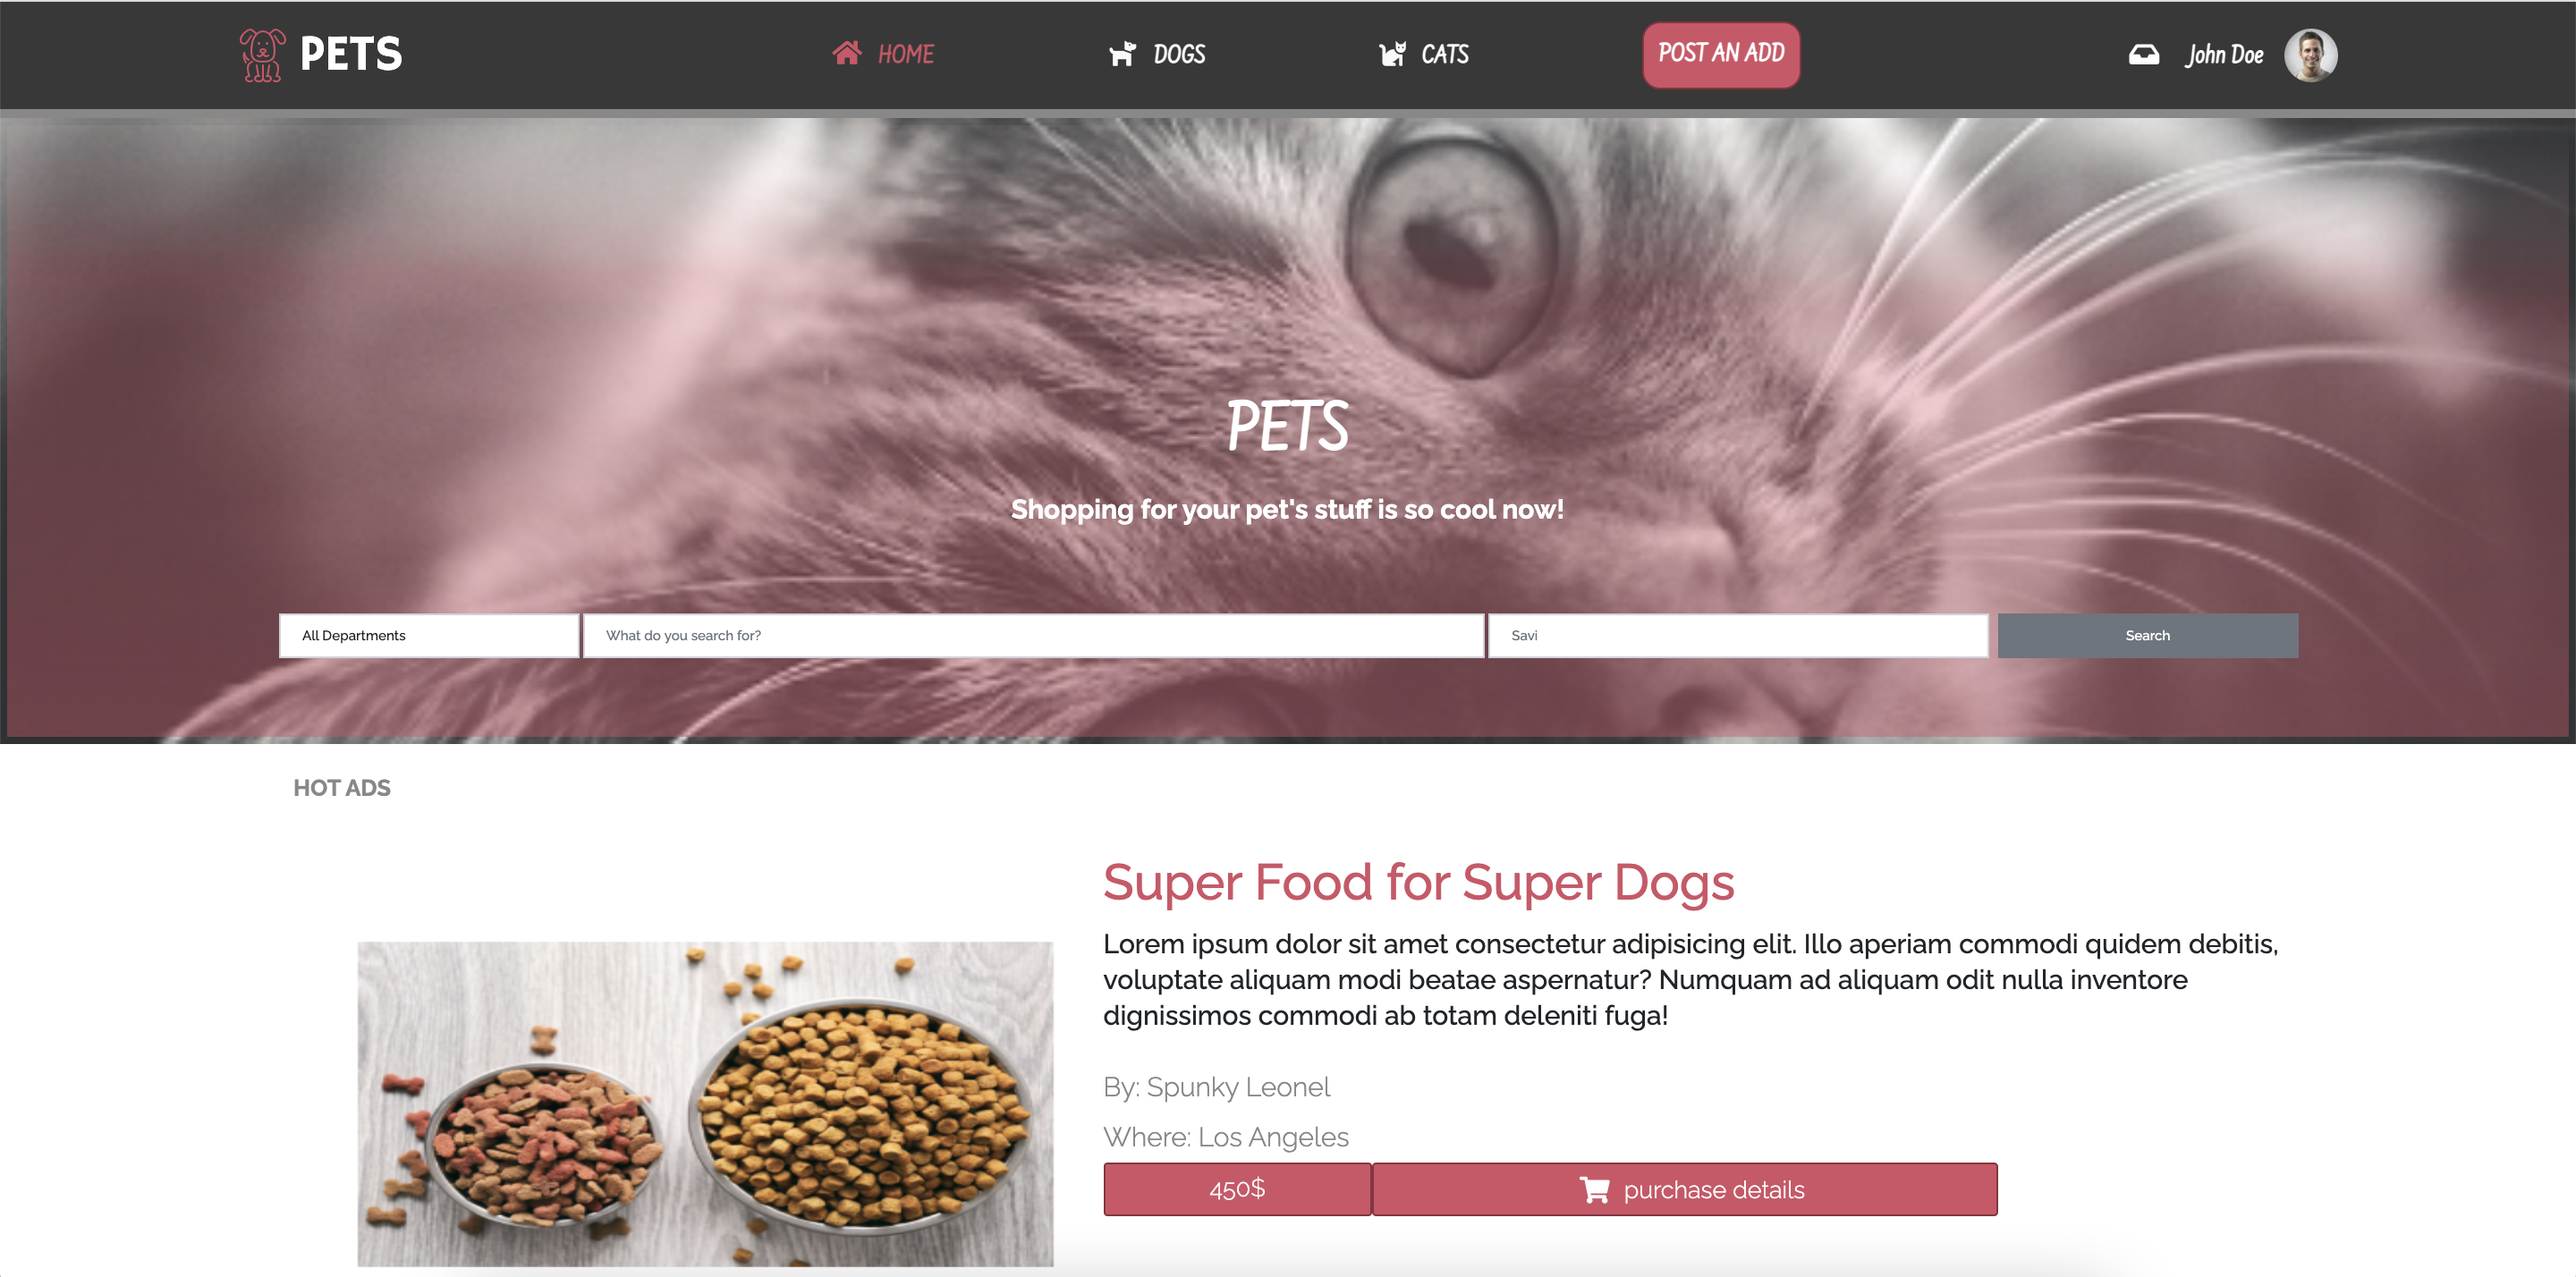
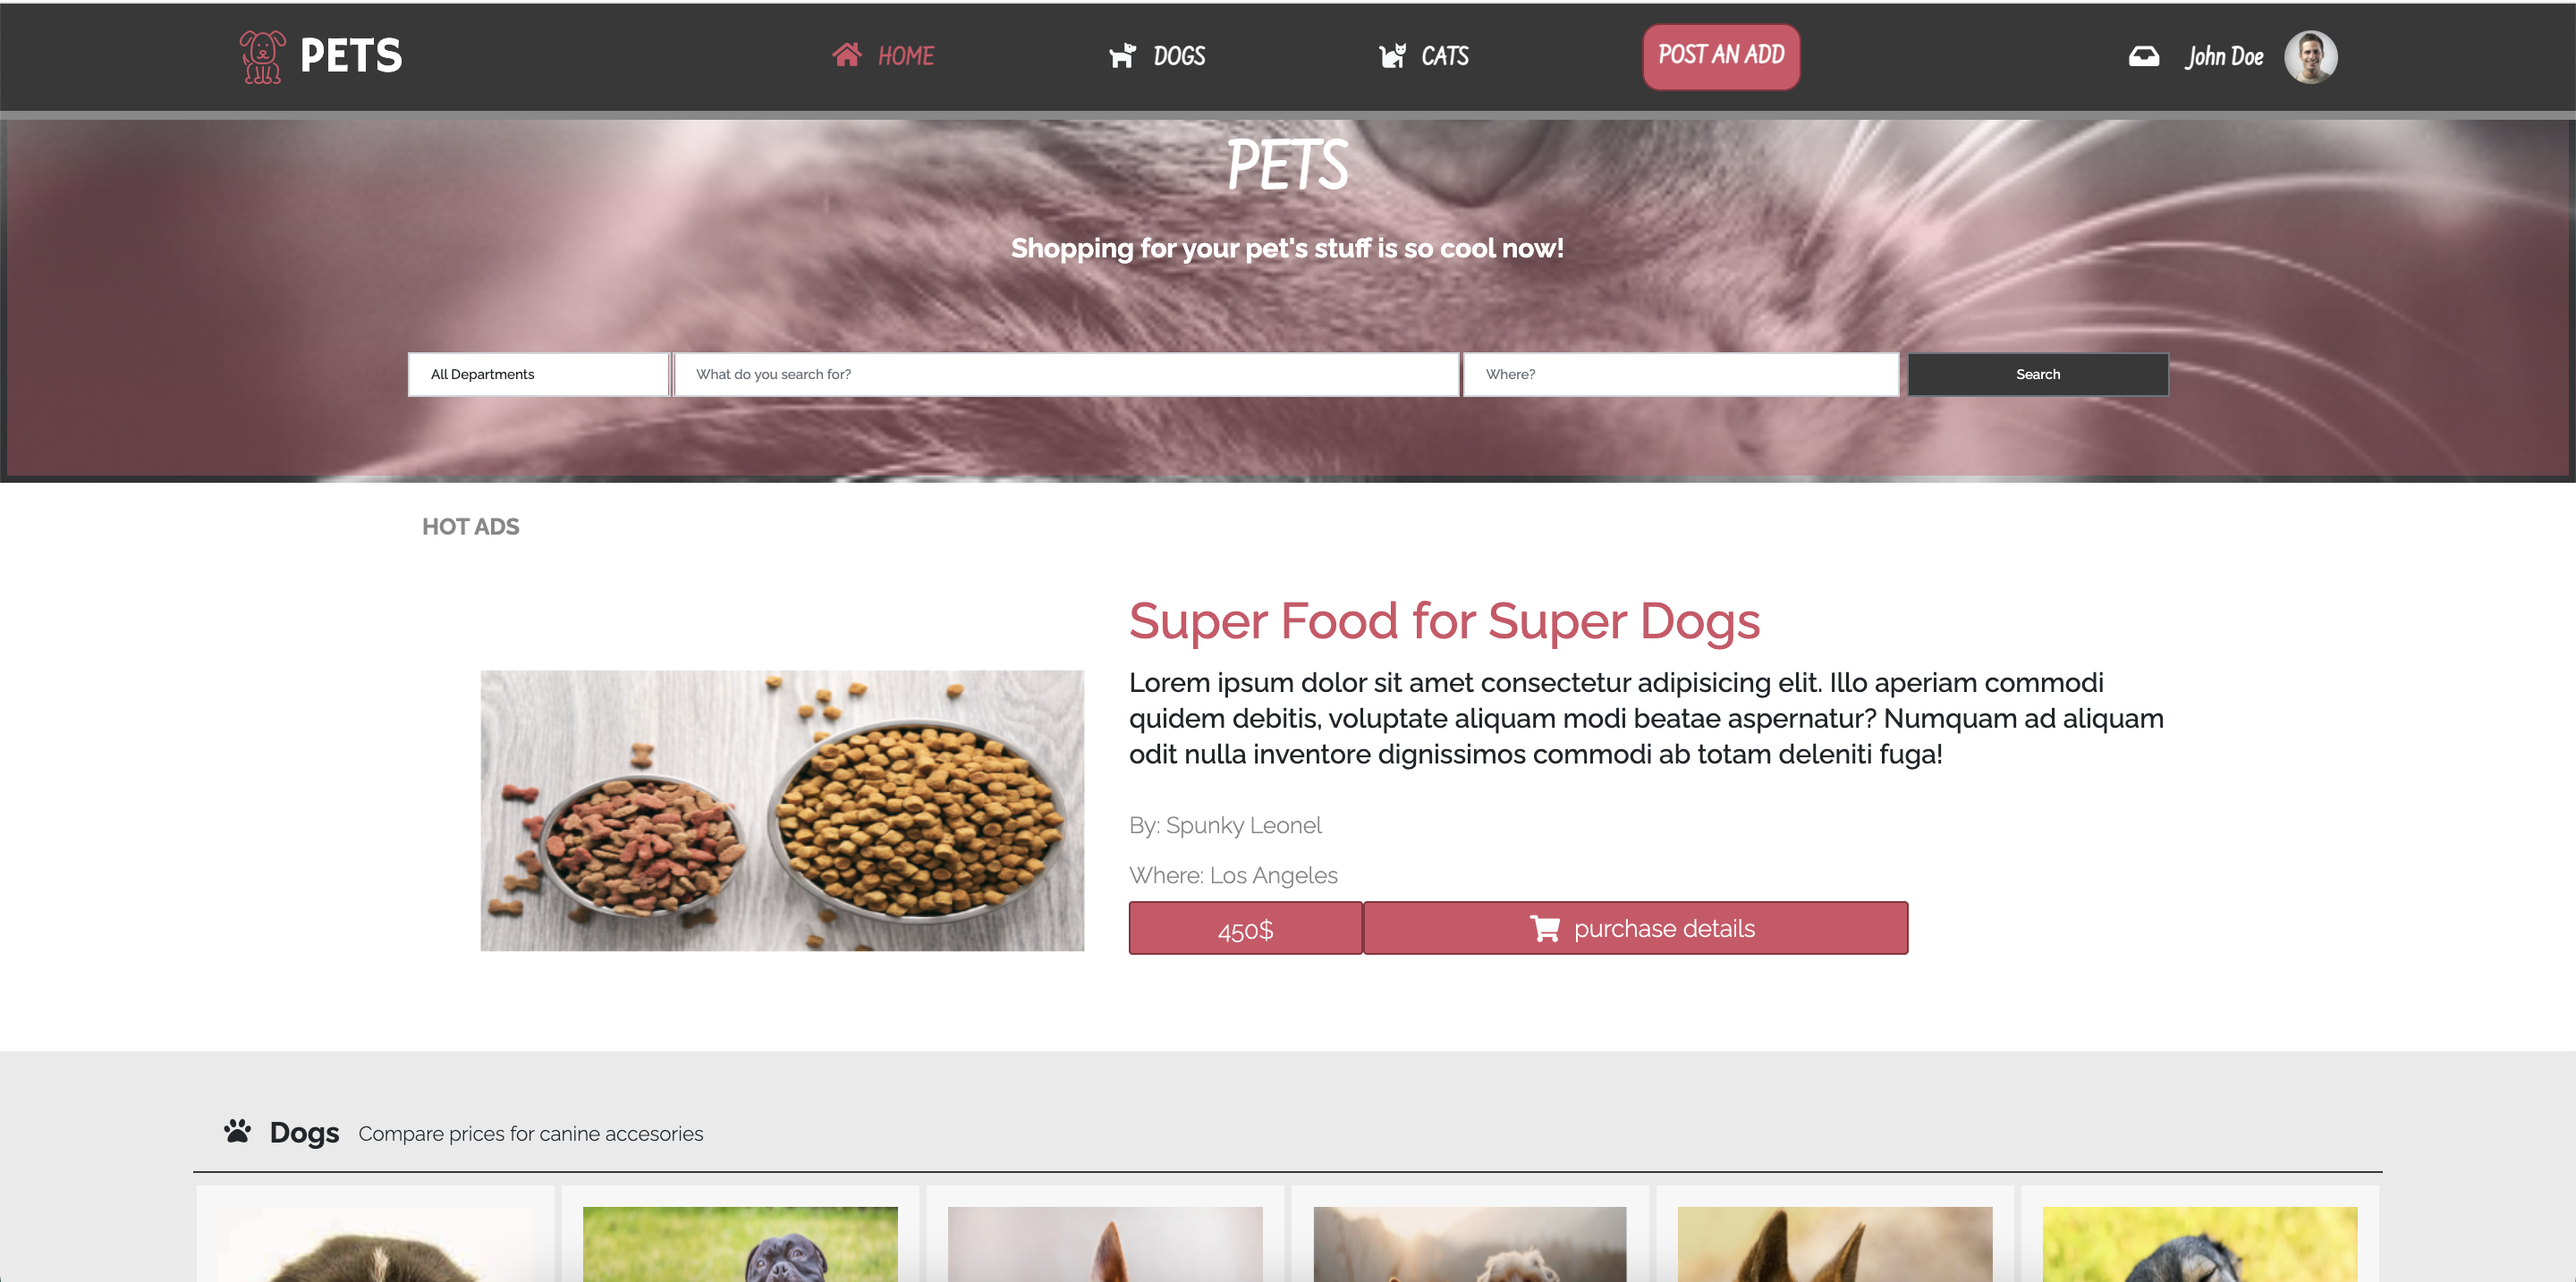
Update README and do final touches in page details.

diff --git a/index.html b/index.html
@@ -147,11 +147,11 @@
                   <img src="https://vcahospitals.com/-/media/vca/images/lifelearn-images-foldered/17507/dog_food_choices.png?la=en&hash=BAEB9FCFFD63A046A76DC0F55447DD7B" alt="dog bowls filled with dog food">
                 </div>
                 <div class="adtxt d-flex flex-column">
-                  <h3 class="h3ads helvetica-Med  colorpink">Super Food for Super Dogs</h3>
-                  <p class="helvetica-Med  text-dark">Lorem ipsum dolor sit amet consectetur adipisicing elit. Illo aperiam commodi quidem debitis, voluptate aliquam modi beatae aspernatur? Numquam ad aliquam odit nulla inventore dignissimos commodi ab totam deleniti fuga!</p>
-                  <span class="smltxtads helvetica-ligth my-1 colorgrey">By: Spunky Leonel</span>
-                  <span class="smltxtads helvetica-ligth my-1 colorgrey">Where: Los Angeles</span>
-                  <div class="btnads d-flex w-75">
+                  <h2 class="h3ads helvetica-bold  colorpink firstfootxt">Super Food for Super Dogs</h2>
+                  <p class="helvetica-Med  text-dark firstfootxt">Lorem ipsum dolor sit amet consectetur adipisicing elit. Illo aperiam commodi quidem debitis, voluptate aliquam modi beatae aspernatur? Numquam ad aliquam odit nulla inventore dignissimos commodi ab totam deleniti fuga!</p>
+                  <span class="helvetica-ligth my-1 colorgrey firstfootxt">By: Spunky Leonel</span>
+                  <span class="helvetica-ligth my-1 colorgrey firstfootxt">Where: Los Angeles</span>
+                  <div class="btnads d-flex w-75 ">
                     <a href="#" class="btnsenad btn1ad helvetica-ligth text-center">450$</a>
                     <a href="#" class="btn2ad d-flex align-items-center p-1 justify-content-center">
                       <i class="fas fa-shopping-cart text-white mx-2"></i>

diff --git a/css/styles.css b/css/styles.css
@@ -227,10 +227,6 @@ header .formhdr fieldset a.butnformhdr {
   width: 25%;
 }
 
-.smltxtads {
-  font-size: 0.5em;
-}
-
 /* responsive header  */
 
 @media (min-width: 992px) {
@@ -389,17 +385,15 @@ footer section.lowfoo {
 }
 
 @media (min-width: 768px) {
-  .firstfootxt,
-  .fourthfootxt {
+  .firstfootxt {
     font-size: 0.65em;
     line-height: 1.5em;
   }
 }
 
 @media (min-width: 992px) {
-  .firstfootxt,
-  .fourthfootxt {
-    font-size: 0.85em;
+  .firstfootxt {
+    font-size: 0.95em;
     line-height: 1.8em;
   }
 }
